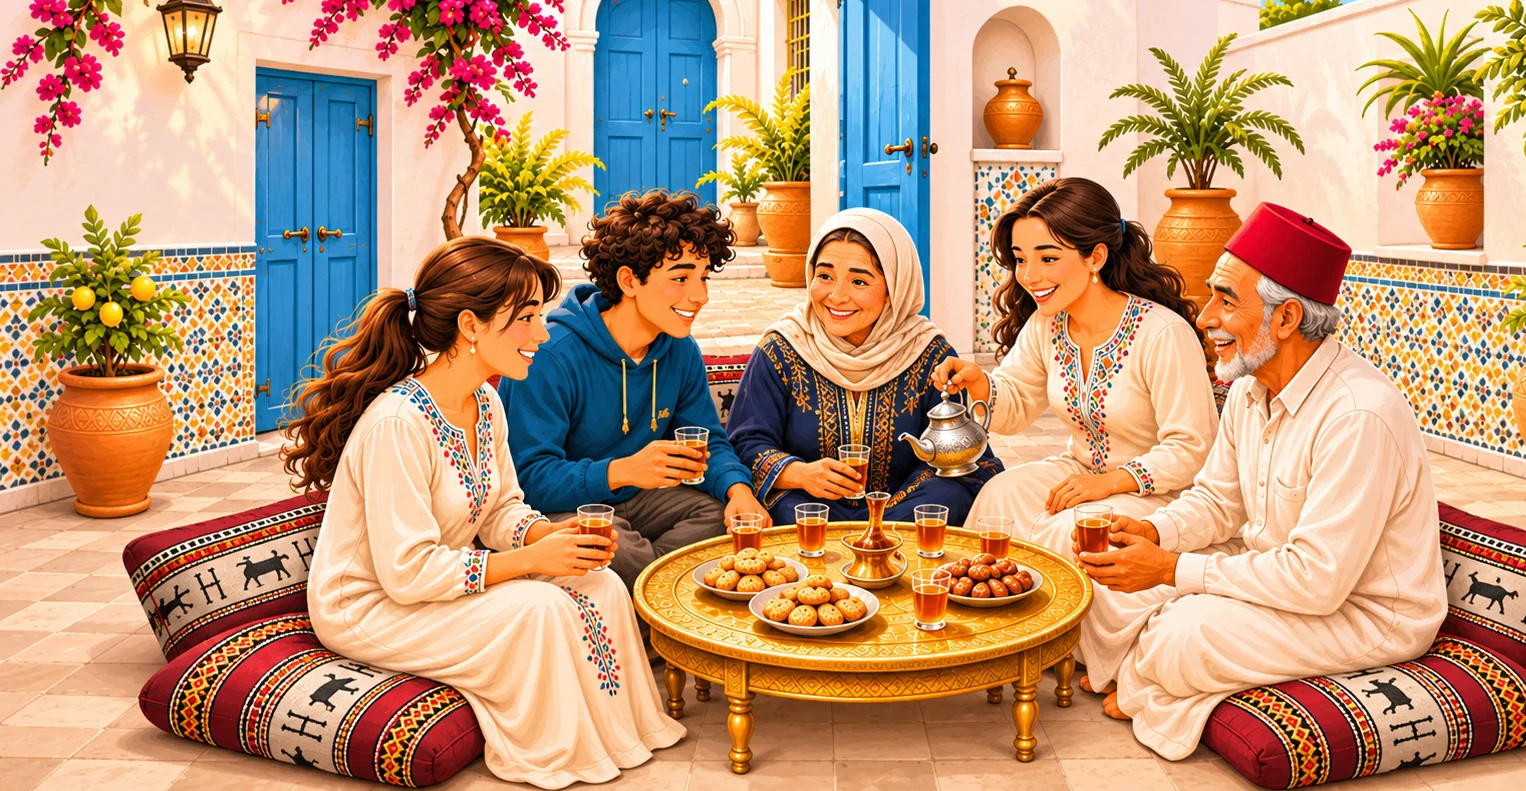
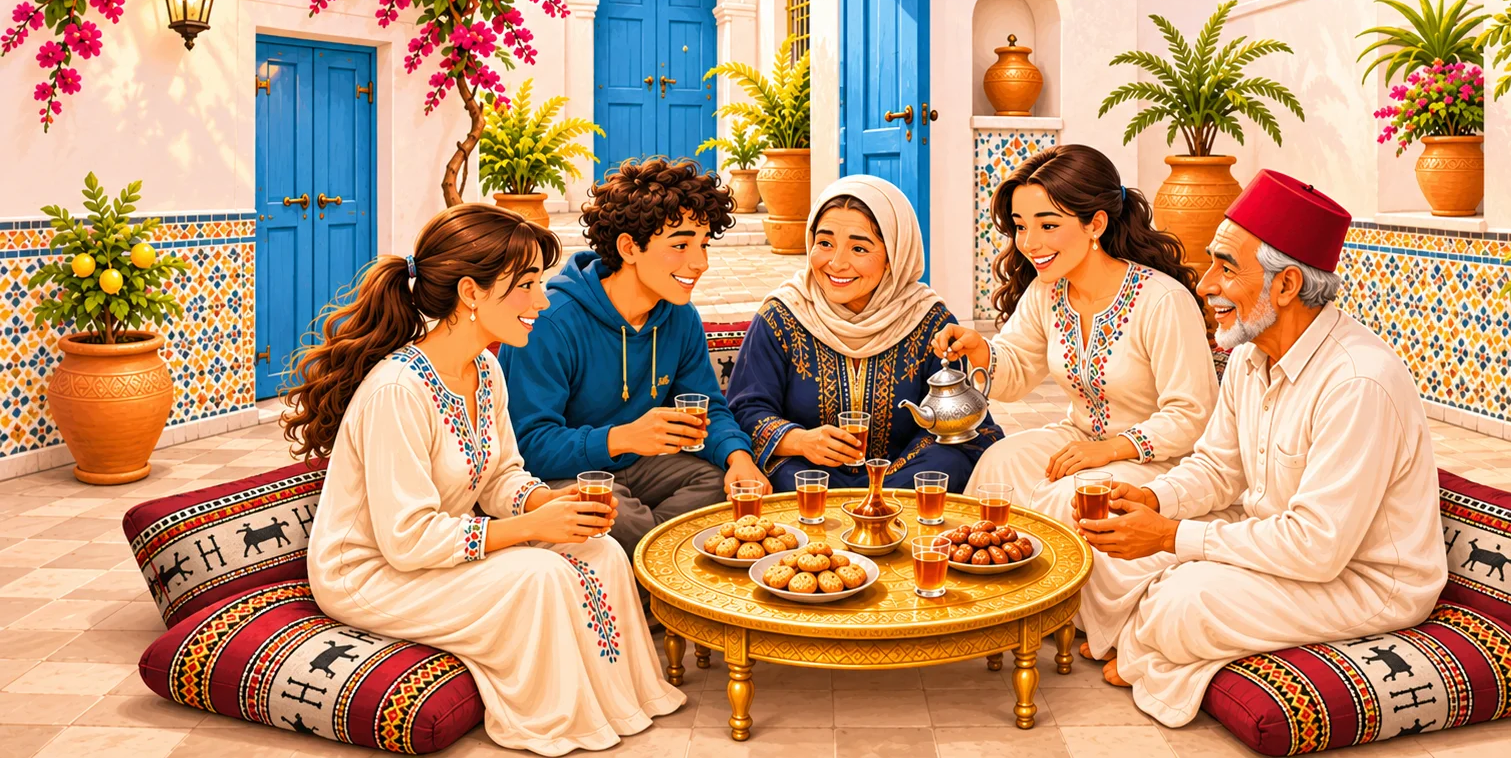
Adjust mobile hero background

diff --git a/src/styles.css b/src/styles.css
@@ -150,7 +150,7 @@
   #accueil.hero::before {background:linear-gradient(to right,#faf8f3 0%,#faf8f3 43%,rgba(250,248,243,0) 59%)}
 }
 @media (max-width:650px) {
-  #accueil.hero {background-position:60% center}
+  #accueil.hero {background-position:60% 270px}
   #accueil.hero::before {background:linear-gradient(to bottom,#faf8f3 0%,#faf8f3 43%,rgba(250,248,243,0) 66%)}
   #accueil.hero::after {background:linear-gradient(to top,#faf8f3 0%,rgba(250,248,243,0) 12%)}
 }
